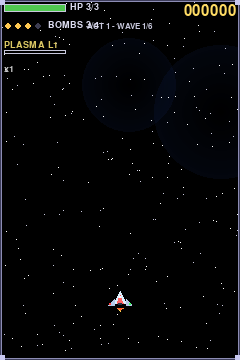
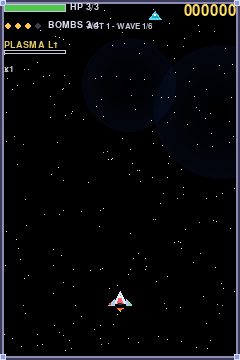
feat: BLOQUE 21 — thicker borders + screen flash + boss entry + shockwave rings

Changed region(s): [[0.0, 0.0, 1.0, 1.0]]

diff --git a/src/ui/gameplay_runtime.py b/src/ui/gameplay_runtime.py
@@ -109,6 +109,16 @@ class PowerUp:
     color: tuple[int, int, int]
 
 
+@dataclass
+class Shockwave:
+    x: float
+    y: float
+    radius: float
+    max_radius: float
+    life: float
+    max_life: float
+
+
 class GameplayRuntime:
     """Owns the live action loop. One per GAMEPLAY or BOSS_FIGHT scene.
 
@@ -162,6 +172,9 @@ class GameplayRuntime:
         self._score_popups: list[ScorePopup] = []
         self._powerups: list[PowerUp] = []
         self._enemy_flash: dict[int, float] = {}  # id(e) -> flash_timer
+        self._shockwaves: list[Shockwave] = []  # expanding ring effects
+        self._screen_flash: float = 0.0  # 0..1 alpha of white overlay (bomb)
+        self._boss_entry_t: float = 0.0  # boss slides in on first 1.5s of fight
         self._dash_consumed: bool = False  # SFX dedup
         self._last_charge_level: int = 0
         self._death_exploded: bool = False
@@ -222,6 +235,8 @@ class GameplayRuntime:
         self._score_popups.clear()
         self._powerups.clear()
         self._enemy_flash.clear()
+        self._shockwaves.clear()
+        self._screen_flash = 0.0
         self._t = 0.0
         self._wave_spawn_timer = 0.0
         self._is_wave_active = not self._is_boss
@@ -229,6 +244,7 @@ class GameplayRuntime:
         self._death_exploded = False
         self._last_charge_level = 0
         self._bgm_started = False
+        self._boss_entry_t = 0.0
         if not self._is_boss:
             self._wave_mgr.start_wave(self._wave_idx)
             self._populate_spawn_queue()
@@ -345,6 +361,8 @@ class GameplayRuntime:
 
     def _screen_clear_damage(self) -> None:
         """Bomb: kill all enemy bullets and damage visible enemies."""
+        # Full-screen white flash (decreases over time)
+        self._screen_flash = 1.0
         # Clear enemy bullets
         for p in self._bullets.pool:
             if p.active and p.owner in (OWNER_ENEMY, OWNER_BOSS):
@@ -356,7 +374,8 @@ class GameplayRuntime:
                 killed = e.apply_damage(400)
                 if killed:
                     self._on_enemy_killed(e)
-
+        # Shockwave ring expanding from player
+        self._add_shockwave(self._player.x, self._player.y, 80.0)
     # ------------------------------------------------------------------
     # Enemies: spawn + update
     # ------------------------------------------------------------------
@@ -420,11 +439,23 @@ class GameplayRuntime:
                 self._enemies.release(e)
         # Boss
         if self._is_boss and self._boss is not None and self._boss.active:
-            self._boss.update(dt)
-            # Boss attack selection
-            attack = self._boss.select_attack()
-            if attack >= 0:
-                self._spawn_boss_attack(attack)
+            # Boss slides in from off-screen for first 1.5s
+            self._boss_entry_t += dt
+            if self._boss_entry_t < 1.5:
+                # Override y position to slide from -50 to anchor_y
+                from src.entities.enemies.boss import BOSS_CONFIGS
+                cfg = BOSS_CONFIGS[self._boss.id]
+                progress = min(1.0, self._boss_entry_t / 1.5)
+                eased = 1.0 - (1.0 - progress) ** 3
+                self._boss.y = -50 + (cfg.anchor_y - -50) * eased
+            else:
+                # Normal boss behavior (sine oscillation)
+                self._boss.update(dt)
+            # Boss attack selection (suppressed during entry)
+            if self._boss_entry_t >= 0.8:
+                attack = self._boss.select_attack()
+                if attack >= 0:
+                    self._spawn_boss_attack(attack)
             # Boss death
             if self._boss.hp <= 0:
                 self._on_boss_killed()
@@ -709,6 +740,9 @@ class GameplayRuntime:
         self._update_score_popups(effective_dt)
         self._update_powerups(effective_dt)
         self._update_enemy_flash(effective_dt)
+        self._update_shockwaves(effective_dt)
+        if self._screen_flash > 0.0:
+            self._screen_flash = max(0.0, self._screen_flash - effective_dt * 2.5)
         self._check_player_death_explosion()
         self._particles.update(effective_dt)
         self._hitstop.update()
@@ -763,6 +797,28 @@ class GameplayRuntime:
             if t > 0.0:
                 decayed[eid] = t
         self._enemy_flash = decayed
+
+    def _add_shockwave(self, x: float, y: float, max_radius: float = 60.0) -> None:
+        """Add an expanding ring shockwave (bomb/charged-shot visual)."""
+        self._shockwaves.append(Shockwave(
+            x=x, y=y, radius=2.0, max_radius=max_radius, life=0.5, max_life=0.5,
+        ))
+
+    def _update_shockwaves(self, dt: float) -> None:
+        """Expand shockwaves over their lifetime."""
+        if not self._shockwaves:
+            return
+        alive: list[Shockwave] = []
+        for s in self._shockwaves:
+            new_life = s.life - dt
+            if new_life <= 0.0:
+                continue
+            new_radius = s.radius + dt * (s.max_radius / 0.5)
+            alive.append(Shockwave(
+                x=s.x, y=s.y, radius=new_radius,
+                max_radius=s.max_radius, life=new_life, max_life=s.max_life,
+            ))
+        self._shockwaves = alive
 
     def _check_player_death_explosion(self) -> None:
         """One-shot multi-stage explosion when the player first dies."""
@@ -844,7 +900,6 @@ class GameplayRuntime:
         # Player damage flash: red overlay right after taking a hit
         if self._player.invuln_frames > 60 - 8 and self._player.invuln_frames > 0 \
                 and not self._player.is_dead:
-            # Brief red flash overlay (8 frames after hit)
             flash = pygame.Surface(target.get_size(), pygame.SRCALPHA)
             flash.fill((255, 60, 40, 100))
             target.blit(flash, (0, 0))
@@ -852,10 +907,10 @@ class GameplayRuntime:
         for p in self._powerups:
             alpha = max(0, min(255, int(255 * (p.life / 2.0))))
             rect = pygame.Rect(int(p.x) - 4 + shx, int(p.y) - 4 + shy, 8, 8)
-            s = pygame.Surface((8, 8), pygame.SRCALPHA)
-            pygame.draw.rect(s, (p.color[0], p.color[1], p.color[2], alpha),
-                             s.get_rect(), border_radius=2)
-            target.blit(s, rect)
+            pu_surf = pygame.Surface((8, 8), pygame.SRCALPHA)
+            pygame.draw.rect(pu_surf, (p.color[0], p.color[1], p.color[2], alpha),
+                             pu_surf.get_rect(), border_radius=2)
+            target.blit(pu_surf, rect)
             # Inner dot
             pygame.draw.rect(target, (255, 255, 255), (rect.x + 2, rect.y + 2, 4, 4))
         # Enemies
@@ -865,6 +920,17 @@ class GameplayRuntime:
         # Boss
         if self._is_boss and self._boss is not None and self._boss.active:
             self._draw_boss(target, shx, shy)
+        # Shockwaves (under bullets so they sit behind)
+        for s in self._shockwaves:
+            r = s.radius
+            life_ratio = s.life / s.max_life if s.max_life > 0 else 0
+            alpha = max(0, min(255, int(200 * life_ratio)))
+            sx = int(s.x) + shx
+            sy = int(s.y) + shy
+            ring_surf = pygame.Surface((int(r * 2) + 4, int(r * 2) + 4), pygame.SRCALPHA)
+            pygame.draw.circle(ring_surf, (255, 255, 255, alpha),
+                               (int(r) + 2, int(r) + 2), int(r), 2)
+            target.blit(ring_surf, (sx - int(r) - 2, sy - int(r) - 2))
         # Bullets (with glow halo)
         self._draw_bullets_with_glow(target, shx, shy)
         # Player (only if not in DEAD state and not i-frames invisible)
@@ -880,6 +946,12 @@ class GameplayRuntime:
         self._draw_play_area_frame(target)
         # HUD
         self._hud.draw(target, self._player, self._weapon, self._scoring)
+        # Screen flash (bomb) — drawn last, fades over time
+        if self._screen_flash > 0.0:
+            flash_alpha = int(200 * self._screen_flash)
+            flash = pygame.Surface(target.get_size(), pygame.SRCALPHA)
+            flash.fill((255, 255, 255, flash_alpha))
+            target.blit(flash, (0, 0))
 
     def _draw_wave_indicator(self, target: pygame.Surface) -> None:
         """Show ACT/WAVE label in the top-center between HUD sections."""
@@ -908,25 +980,25 @@ class GameplayRuntime:
         with a bright inner edge that defines the play area clearly.
         """
         w, h = target.get_size()
-        # Outer dark border
-        pygame.draw.rect(target, _BORDER_COLOR, (0, 0, w, h), 2)
-        # Inner light edge for depth
-        pygame.draw.rect(target, _BORDER_INNER, (1, 1, w - 2, h - 2), 1)
-        # Corner accents (brighter)
-        for cx, cy in ((0, 0), (w - 5, 0), (0, h - 5), (w - 5, h - 5)):
-            pygame.draw.rect(target, (200, 200, 240), (cx, cy, 5, 5))
-        # Wall-hit indicator: highlight the side the player is touching
+        # Outer dark border (4px — more prominent)
+        pygame.draw.rect(target, _BORDER_COLOR, (0, 0, w, h), 4)
+        # Inner light edge (2px — bright)
+        pygame.draw.rect(target, _BORDER_INNER, (2, 2, w - 4, h - 4), 2)
+        # Corner accents (6x6, very bright)
+        for cx, cy in ((0, 0), (w - 6, 0), (0, h - 6), (w - 6, h - 6)):
+            pygame.draw.rect(target, (220, 220, 255), (cx, cy, 6, 6))
+            pygame.draw.rect(target, (140, 160, 220), (cx + 1, cy + 1, 4, 4))
+        # Wall-hit indicator: thicker highlight when player touches
         if not self._player.is_dead:
             px, py = self._player.x, self._player.y
-            highlight = 80  # extra bright edge
             if px < 12:  # left wall
-                pygame.draw.rect(target, (255, 255, 255), (0, 0, 3, h), 1)
+                pygame.draw.rect(target, (255, 255, 255), (0, 0, 5, h), 2)
             if px > 228:  # right wall
-                pygame.draw.rect(target, (255, 255, 255), (w - 3, 0, 3, h), 1)
+                pygame.draw.rect(target, (255, 255, 255), (w - 5, 0, 5, h), 2)
             if py < 12:  # top wall
-                pygame.draw.rect(target, (255, 255, 255), (0, 0, w, 3), 1)
+                pygame.draw.rect(target, (255, 255, 255), (0, 0, w, 5), 2)
             if py > 348:  # bottom wall
-                pygame.draw.rect(target, (255, 255, 255), (0, h - 3, w, 3), 1)
+                pygame.draw.rect(target, (255, 255, 255), (0, h - 5, w, 5), 2)
 
     def _draw_bullets_with_glow(self, target: pygame.Surface, ox: int, oy: int) -> None:
         """Draw bullets with a soft glow halo + trail behind each one."""
